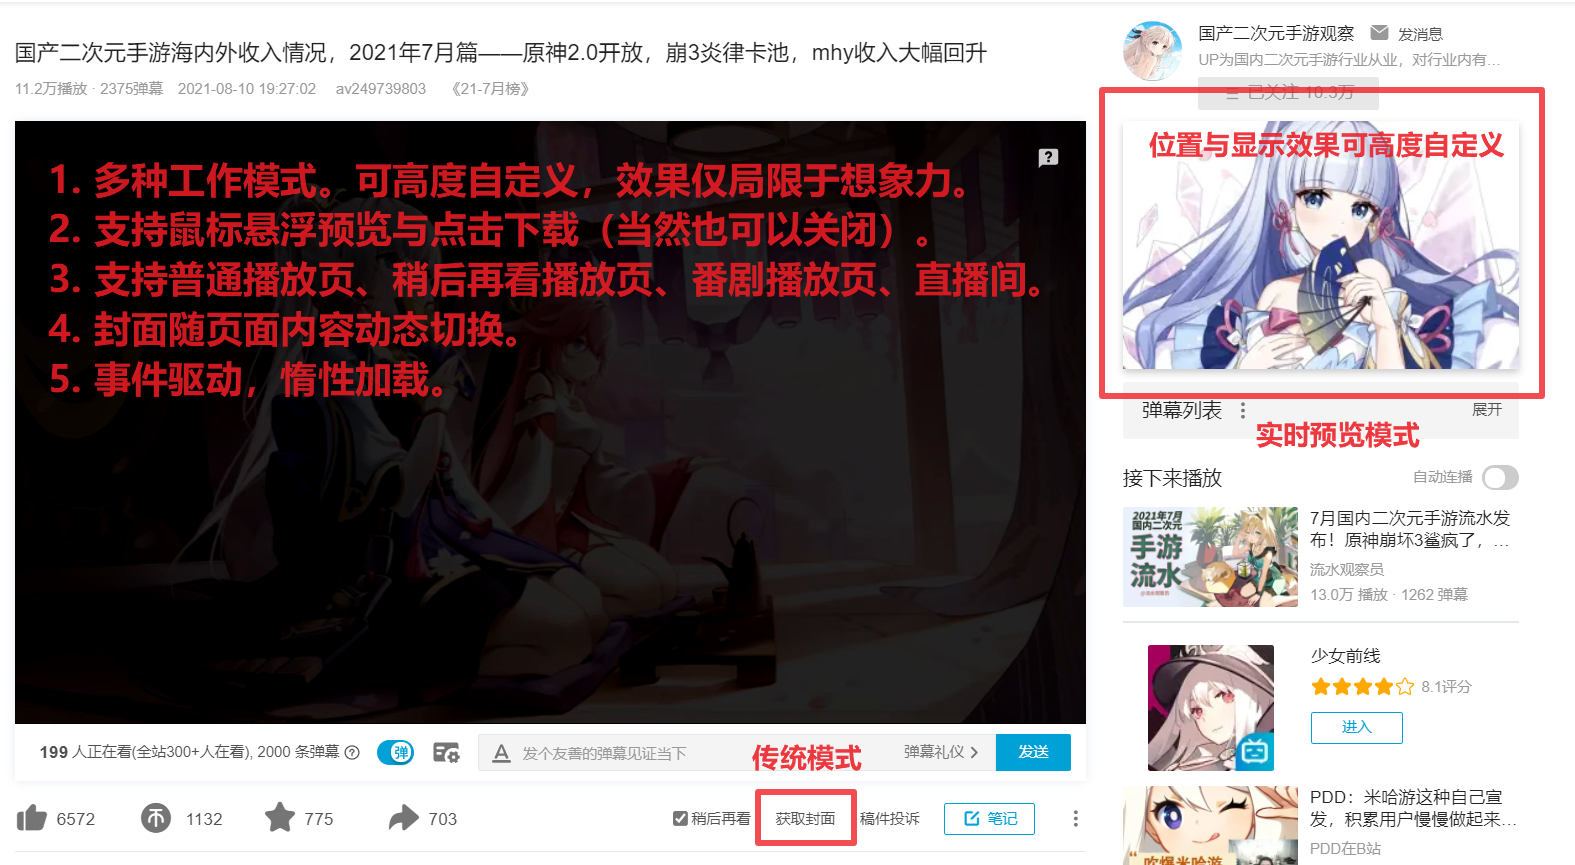
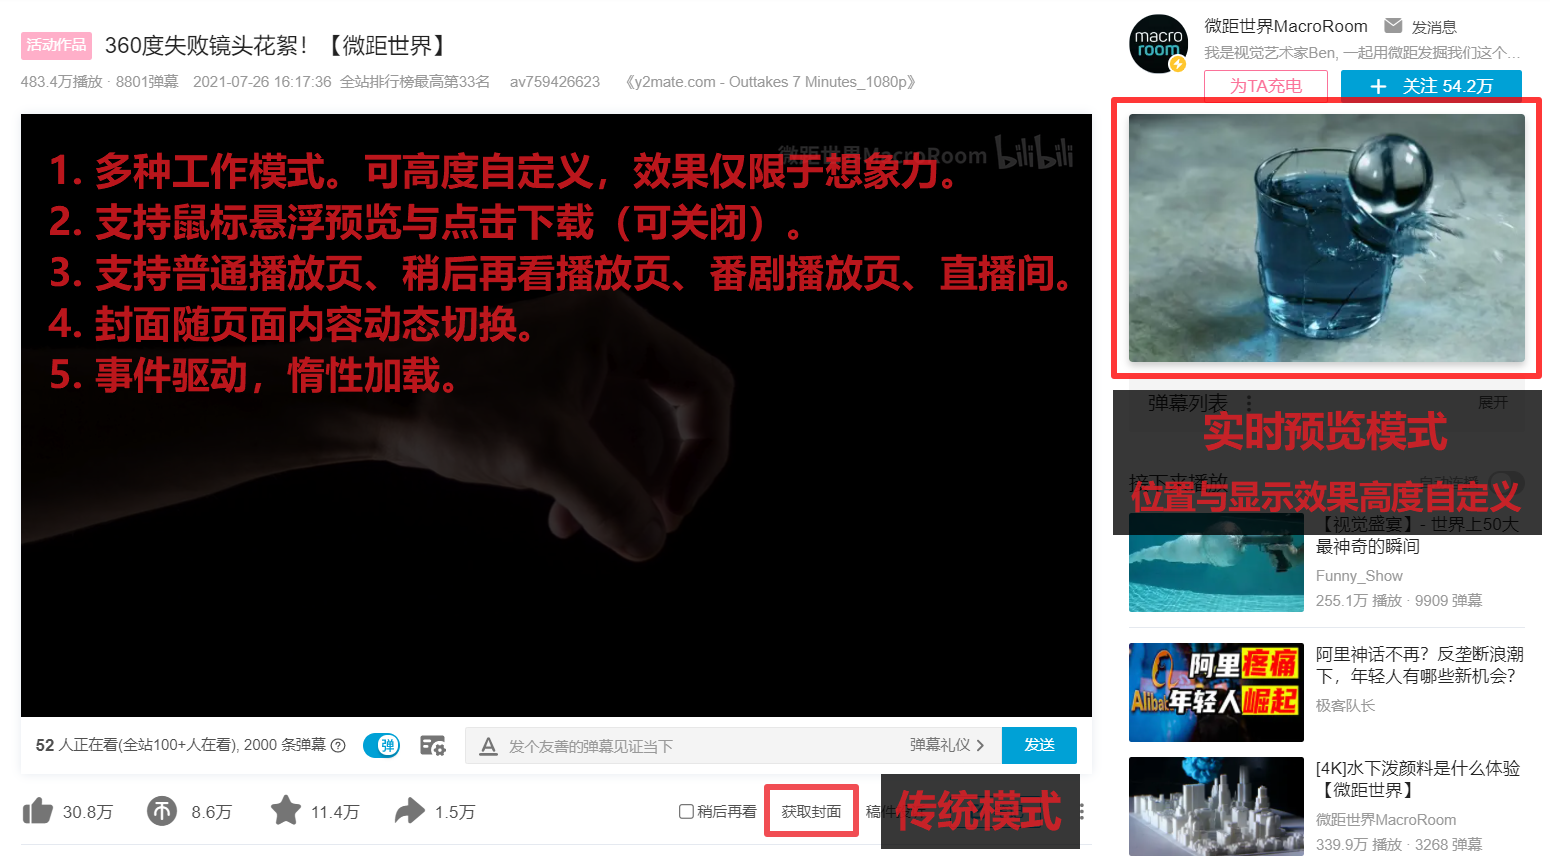
B站封面获取 5.2.5.20210814
* UI：强化质感。
* 封面预览：略微增大预览图显示宽度限制。

diff --git a/script/BilibiliCover/BilibiliCover.user.js b/script/BilibiliCover/BilibiliCover.user.js
@@ -1,6 +1,6 @@
 // ==UserScript==
 // @name            B站封面获取
-// @version         5.2.4.20210814
+// @version         5.2.5.20210814
 // @namespace       laster2800
 // @author          Laster2800
 // @description     获取B站各播放页面及直播间封面，支持手动及实时预览等多种工作模式，支持封面预览及点击下载，可高度自定义
@@ -16,7 +16,7 @@
 // @include         *://live.bilibili.com/*
 // @exclude         *://live.bilibili.com/
 // @exclude         *://live.bilibili.com/?*
-// @require         https://greasyfork.org/scripts/409641-userscriptapi/code/UserscriptAPI.js?version=959818
+// @require         https://greasyfork.org/scripts/409641-userscriptapi/code/UserscriptAPI.js?version=960119
 // @grant           GM_download
 // @grant           GM_notification
 // @grant           GM_xmlhttpRequest
@@ -40,6 +40,8 @@
     #${gmId}-realtime-cover {
       display: block;
       margin-bottom: 10px;
+      border-radius: 3px;
+      overflow: hidden;
       box-shadow: #00000033 0px 3px 6px;
     }
     #${gmId}-realtime-cover img {
@@ -985,17 +987,19 @@
           left: 50%;
           transform: translate(-50%, -50%);
           z-index: 142857;
-          max-width: 60vw; /* 自适应宽度和高度 */
+          max-width: 65vw; /* 自适应宽度和高度 */
           max-height: 100vh;
+          border-radius: 8px;
           display: none;
           opacity: 0;
           transition: opacity ${gm.const.fadeTime}ms ease-in-out;
           cursor: pointer;
+          box-shadow: #000000AA 0px 3px 6px;
         }
 
         /* 禁止交互，避免用户使用右键获取到 <img> 上的预览图 */
         /* 不写进 defaultRealtimeStyle 中，而是作为全局样式减少自定义模式工作量 */
-        #${gmId}-realtime-cover img {
+        #${gm.id}-realtime-cover img {
           pointer-events: none;
         }
       `, doc)

diff --git a/script/BilibiliCover/changelog.md b/script/BilibiliCover/changelog.md
@@ -11,7 +11,8 @@
 5. 番剧：优化封面获取流程，修复某些情况下无法响应内容变化的 BUG（或许是B站更新造成）。
 6. 直播间：优化针对 `<iframe>` 直播间的处理，排除页面加载不稳定造成的影响。[#95544](https://greasyfork.org/zh-CN/scripts/395575/discussions/95544)
 7. 直播间：重新改回懒加载方式，彻底排除页面加载不稳定造成的影响。
-8. 代码：提取封面交互代理逻辑。
+8. UI：强化质感。
+9. 代码：提取封面交互代理逻辑。
 
 > [#95544](https://greasyfork.org/zh-CN/scripts/395575/discussions/95544) 是一个跟 CPU 相关的奇葩问题。理论上来说，电脑配置越高出 BUG 的概率就越大，垃圾电脑根本不配遇到这个 BUG……
 

diff --git a/script/BilibiliCover/README.md b/script/BilibiliCover/README.md
@@ -26,7 +26,7 @@
 
 * 封面预览
 
-    ![封面预览](https://gitee.com/liangjiancang/userscript/raw/master/script/BilibiliCover/screenshot/封面预览.jpg)
+    ![封面预览](https://gitee.com/liangjiancang/userscript/raw/master/script/BilibiliCover/screenshot/封面预览.png)
 
 *gitee: [BilibiliCover](https://gitee.com/liangjiancang/userscript/tree/master/script/BilibiliCover)*
 
